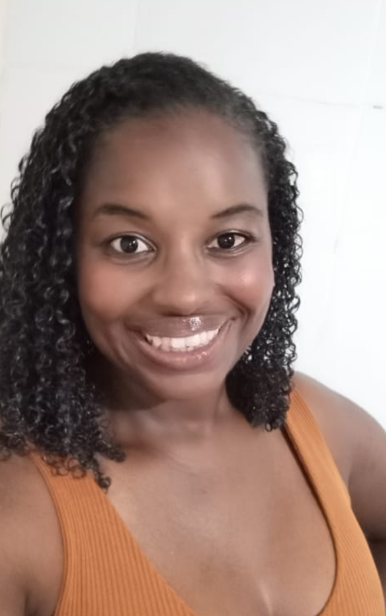
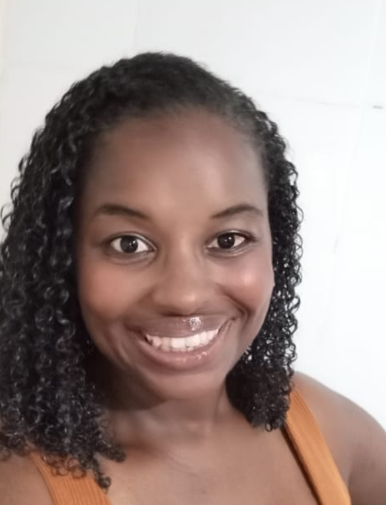
Equipe: completa membros restantes e otimiza fotos
Substitui os 11 placeholders "Pessoa 27-37" pelos integrantes reais
(Murilo Santos, Damiana Jussara, Carlos Machado, Darlon Martins,
Marcelo Silva, Eduardo Souza e Vinicius Ribeiro) com cargo, area,
foto e e-mail corretos.

Reduz o peso das imagens de Carlos Machado, Damiana Jussara e
Murilo Costa.

diff --git a/js/equipe.js b/js/equipe.js
@@ -24,22 +24,18 @@ const equipe = [
   { nome: "Pedro Santos", cargo: "Analista de Soluções de Soluções de Midias III", area: "MAM",    foto: "Fotos/EQUIPE/pedro santos.png", email: "pedro.santos@g.globo", perfil: "#" },
   { nome: "Paul Makito", cargo: "Analista de Soluções de Soluções de Midias III", area: "MAM",   foto: "Fotos/EQUIPE/paul makito.png", email: "paul.makito@g.globo", perfil: "#" },
   { nome: "Paulo Abel", cargo: "Analista de Soluções de Soluções de Midias II", area: "CAPTAÇÃO",  foto: "Fotos/EQUIPE/paulo abel.png", email: "paulo.abel@g.globo", perfil: "#" },
+  { nome: "Murilo Santos", cargo: "Analista de Soluções de Soluções de Midias I", area: "IP",    foto: "Fotos/EQUIPE/murilo costa.png", email: "murilo.santos@g.globo", perfil: "#" },
   { nome: "Tiago Lemos", cargo: "Analista de Soluções de Soluções de Midias II", area: "MAM",        foto: "Fotos/EQUIPE/tiago lemos.png", email: "tiago.lemos@g.globo", perfil: "#" },
   { nome: "Victor Rodrigues", cargo: "Analista de Soluções de Soluções de Midias I", area: "inews",     foto: "Fotos/EQUIPE/victor rodrigues.png", email: "victor.rodrigues_addigital@prestador.globo", perfil: "#" },
   { nome: "Rodrigo Pereira", cargo: "Analista de Soluções de Soluções de Midias II", area: "INEWS",  foto: "Fotos/EQUIPE/rodrigo pereira.png", email: "rodrigo.pereira@g.globo", perfil: "#" },
   { nome: "Victor Luiz", cargo: "Analista de Soluções de Soluções de Midias I", area: "CAPTAÇÃO", foto: "Fotos/EQUIPE/victor luiz.jpg", email: "victor.luiz_addigital@prestador.globo", perfil: "#" },
   { nome: "Antonio Gomes (Adilson)", cargo: "Analista de Soluções de Soluções de Midias III", area: "CAPTAÇÃO", foto: "Fotos/EQUIPE/antonio gomes.png", email: "gomes@g.globo", perfil: "#" },
-  { nome: "Pessoa 27", cargo: "Analista de Soluções de Soluções de Midias I", area: "IP",           foto: "Fotos/EQUIPE/pessoa-27.jpg", email: "pessoa27@empresa.com", perfil: "#" },
-  { nome: "Pessoa 28", cargo: "Analista de Soluções de Soluções de Midias I", area: "Áudio",        foto: "Fotos/EQUIPE/pessoa-28.jpg", email: "pessoa28@empresa.com", perfil: "#" },
-  { nome: "Pessoa 29", cargo: "Analista de Soluções de Soluções de Midias I", area: "Grafismo",     foto: "Fotos/EQUIPE/pessoa-29.jpg", email: "pessoa29@empresa.com", perfil: "#" },
-  { nome: "Pessoa 30", cargo: "Analista de Soluções de Soluções de Midias I", area: "Comunicação",  foto: "Fotos/EQUIPE/pessoa-30.jpg", email: "pessoa30@empresa.com", perfil: "#" },
-  { nome: "Pessoa 31", cargo: "Analista de Soluções de Soluções de Midias I", area: "Vídeo",        foto: "Fotos/EQUIPE/pessoa-31.jpg", email: "pessoa31@empresa.com", perfil: "#" },
-  { nome: "Pessoa 32", cargo: "Analista de Soluções de Soluções de Midias I", area: "IP",           foto: "Fotos/EQUIPE/pessoa-32.jpg", email: "pessoa32@empresa.com", perfil: "#" },
-  { nome: "Pessoa 33", cargo: "Analista de Soluções de Soluções de Midias I", area: "Áudio",        foto: "Fotos/EQUIPE/pessoa-33.jpg", email: "pessoa33@empresa.com", perfil: "#" },
-  { nome: "Pessoa 34", cargo: "Analista de Soluções de Soluções de Midias I", area: "Grafismo",     foto: "Fotos/EQUIPE/pessoa-34.jpg", email: "pessoa34@empresa.com", perfil: "#" },
-  { nome: "Pessoa 35", cargo: "Analista de Soluções de Soluções de Midias I", area: "Comunicação",  foto: "Fotos/EQUIPE/pessoa-35.jpg", email: "pessoa35@empresa.com", perfil: "#" },
-  { nome: "Pessoa 36", cargo: "Analista de Soluções de Soluções de Midias I", area: "Vídeo",        foto: "Fotos/EQUIPE/pessoa-36.jpg", email: "pessoa36@empresa.com", perfil: "#" }, 
-  { nome: "Pessoa 37", cargo: "Analista de Soluções de Soluções de Midias I", area: "IP",           foto: "Fotos/EQUIPE/pessoa-37.jpg", email: "pessoa37@empresa.com", perfil: "#" }
+  { nome: "Damiana Jussara", cargo: "Estagiária", area: "Captação",        foto: "Fotos/EQUIPE/damiana jussara.png", email: "damiana.jussara@g.globo", perfil: "#" },
+  { nome: "Carlos Machado", cargo: "Analista de Soluções de Soluções de Midias III", area: "Integração",           foto: "Fotos/EQUIPE/carlos machado.png", email: "carlos.machado@g.globo", perfil: "#" },
+  { nome: "Darlon Martins", cargo: "Analista de Soluções de Soluções de Midias II", area: "Integração",        foto: "Fotos/EQUIPE/darlon martins.png", email: "darlon.martins@g.globo", perfil: "#" },
+  { nome: "Marcelo Silva", cargo: "Analista de Broadcast", area: "integração",     foto: "Fotos/EQUIPE/marcelo silva.jpeg", email: "marcelo.silva_centauro@prestador.globo", perfil: "#" },
+  { nome: "Eduardo Souza", cargo: "Analista de Broadcast", area: "Comunicação",  foto: "Fotos/EQUIPE/eduardo braga.png", email: "eduardo.bsouza_centauro@prestador.globo", perfil: "#" },
+  { nome: "Vinicius Ribeiro", cargo: "Analista de Broadcast", area: "Vídeo", foto: "Fotos/EQUIPE/vinicius ribeiro.jpeg", email: "vinicius.ribeiro_youcast@prestador.globo", perfil: "#" },
 ]
 /* ---------- Renderização ---------- */
 
